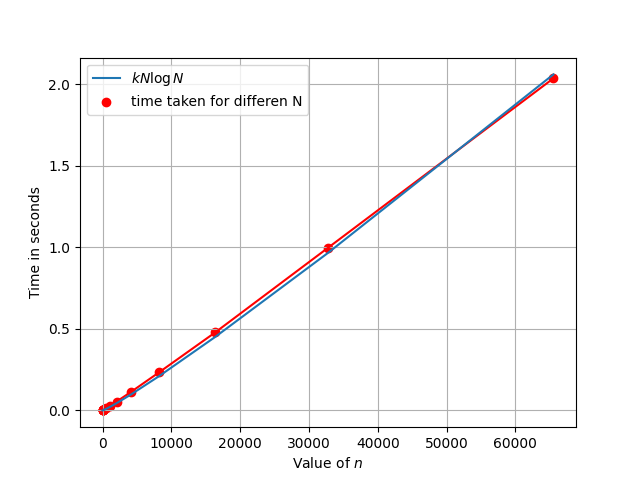
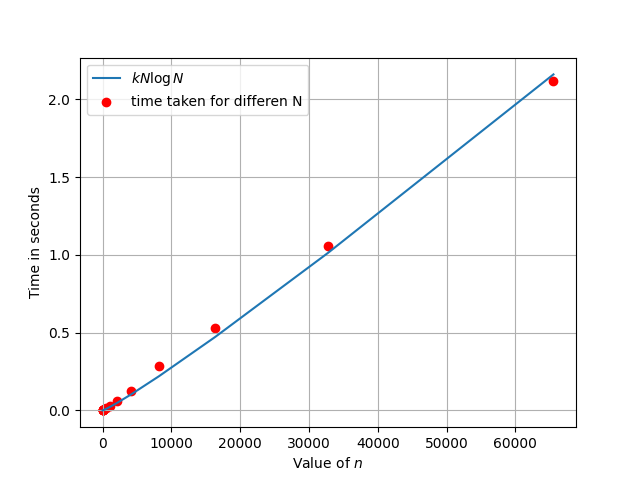
removed red lines

diff --git a/GateAssignment-2/codes/testing.py b/GateAssignment-2/codes/testing.py
@@ -45,7 +45,6 @@ for i in series2:
 print(timeDict.values())
 
 plt.scatter(timeDict.keys(),timeDict.values(),color='red',label='time taken for differen N')
-plt.plot(timeDict.keys(),timeDict.values(),'r')
 
 # building a n log n series
 NLOGn=nlogn(series2)
